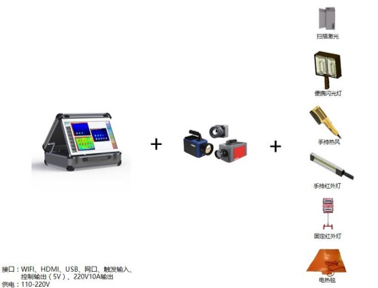
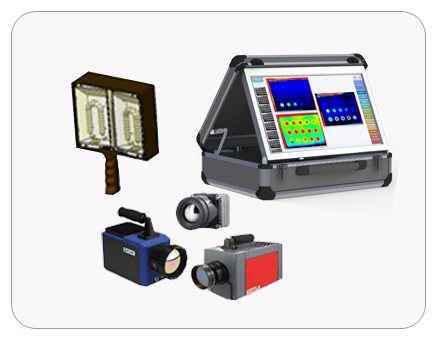
update images, product

diff --git a/ch/about.php b/ch/about.php
@@ -22,9 +22,9 @@ thinking about at Vincie.web</p>
 				<h4>团队</h4>
 				<p>公司拥有在光电领域里具世界一流水平的核心团队，多位成员曾长期在美国硅谷从事精密光电仪器设备的研发及管理工作，为该领域的优秀人才，具有丰富的产品研发经验和成功的创业经历。</p><p>部分成员先后入选了国家“千人计划”、江苏省“创新创业人才”、南京市“321人才计划”，及南京市“科技创业家培养计划”。团队成员具有很强的创新能力，拥有数十项国内外专利发明，并曾多次获得国家级与省部级科技进步奖。</p>
 		</div>
-						<div class="one-third column with-bg">
+						<div class="one-third column">
 				<h4>技术</h4>
-						<p><img src="../images/leaf_icon.png" />
+						<!-- <p><img src="../images/leaf_icon.png" /> -->
 公司还与国内知名高校联合建立合作平台，促进产、学、研的紧密结合，借助高校丰富的人才和科研资源，努力为我国光电设备行业的发展作出贡献。 <span class="highlight3"> 立足自主创新，促进光电设备行业发展。</span></p>
 		</div>
 		<div class="white-space"></div>

diff --git a/en/about.php b/en/about.php
@@ -22,9 +22,9 @@ thinking about at Vincie.web</p>
 				<h4>团队</h4>
 				<p>公司拥有在光电领域里具世界一流水平的核心团队，多位成员曾长期在美国硅谷从事精密光电仪器设备的研发及管理工作，为该领域的优秀人才，具有丰富的产品研发经验和成功的创业经历。</p><p>部分成员先后入选了国家“千人计划”、江苏省“创新创业人才”、南京市“321人才计划”，及南京市“科技创业家培养计划”。团队成员具有很强的创新能力，拥有数十项国内外专利发明，并曾多次获得国家级与省部级科技进步奖。</p>
 		</div>
-						<div class="one-third column with-bg">
+						<div class="one-third column">
 				<h4>技术</h4>
-						<p><img src="../images/leaf_icon.png" />
+						<!-- <p><img src="../images/leaf_icon.png" /> -->
 公司还与国内知名高校联合建立合作平台，促进产、学、研的紧密结合，借助高校丰富的人才和科研资源，努力为我国光电设备行业的发展作出贡献。 <span class="highlight3"> 立足自主创新，促进光电设备行业发展。</span></p>
 		</div>
 		<div class="white-space"></div>

diff --git a/ch/product.php b/ch/product.php
@@ -15,13 +15,13 @@
 
 			<ul>
 					<li>激励方式选择：</li>
-				<li><a href="#" class="selected" data-filter="*">全部</a></li>
+				<li><a href="#" class="selected" data-filter="*">全 部</a></li>
 				<li><a class="" href="#" data-filter=".short">短脉冲</a></li>
 				<li><a class="" href="#" data-filter=".long">长脉冲</a></li>
-				<li><a class="" href="#" data-filter=".fixed">锁相</a></li>
-				<li><a class="" href="#" data-filter=".ultrasound">超声 </a></li>
-				<li><a class="" href="#" data-filter=".special">专用检测设备 </a></li>
+				<li><a class="" href="#" data-filter=".fixed">锁 相</a></li>
+				<li><a class="" href="#" data-filter=".ultrasound">超 声 </a></li>
 				<li><a class="" href="#" data-filter=".workstation">工作站 </a></li>
+				<li><a class="" href="#" data-filter=".special">专用检测设备 </a></li>
 			</ul>
 		</nav>
 

diff --git a/en/product.php b/en/product.php
@@ -15,13 +15,13 @@
 
 			<ul>
 					<li>激励方式选择：</li>
-				<li><a href="#" class="selected" data-filter="*">全部</a></li>
+				<li><a href="#" class="selected" data-filter="*">全 部</a></li>
 				<li><a class="" href="#" data-filter=".short">短脉冲</a></li>
 				<li><a class="" href="#" data-filter=".long">长脉冲</a></li>
-				<li><a class="" href="#" data-filter=".fixed">锁相</a></li>
-				<li><a class="" href="#" data-filter=".ultrasound">超声 </a></li>
-				<li><a class="" href="#" data-filter=".special">专用检测设备 </a></li>
+				<li><a class="" href="#" data-filter=".fixed">锁 相</a></li>
+				<li><a class="" href="#" data-filter=".ultrasound">超 声 </a></li>
 				<li><a class="" href="#" data-filter=".workstation">工作站 </a></li>
+				<li><a class="" href="#" data-filter=".special">专用检测设备 </a></li>
 			</ul>
 		</nav>
 

diff --git a/en/product-special-2.php b/en/product-special-2.php
@@ -119,7 +119,7 @@
 
 
 	<div id="parameters" class="tabcontent">
-	  <img src="../images/products/table_en_special1.png" />
+	  <img src="../images/products/table_en_special2.png" />
 	</div>
 
 	<div id="applications" class="tabcontent">

diff --git a/ch/product-special-2.php b/ch/product-special-2.php
@@ -119,7 +119,7 @@
 
 
 	<div id="parameters" class="tabcontent">
-	  <img src="../images/products/table_special1.png" />
+	  <img src="../images/products/table_special2.png" />
 	</div>
 
 	<div id="applications" class="tabcontent">

diff --git a/en/product-addon.php b/en/product-addon.php
@@ -72,7 +72,7 @@
 
 </div>
 <div id="parameters2" class="tabcontent2">
-  <img src="../images/products/table_en_addon1.png" />
+  <img src="../images/products/table_en_addon2.png" />
 </div>
 </div>
 

diff --git a/ch/product-addon.php b/ch/product-addon.php
@@ -72,7 +72,7 @@
 
 </div>
 <div id="parameters2" class="tabcontent2">
-  <img src="../images/products/table_addon1.png" />
+  <img src="../images/products/table_addon2.png" />
 </div>
 </div>
 

diff --git a/ch/services.php b/ch/services.php
@@ -20,7 +20,7 @@
 </a></p>
 		</div>
 
-				<div class="one-third column with-bg">
+				<div class="one-third column">
 					<h4>售后服务</h4>
 					<p>
 					<span class="highlight3">

diff --git a/en/services.php b/en/services.php
@@ -20,7 +20,7 @@
 </a></p>
 		</div>
 
-				<div class="one-third column with-bg">
+				<div class="one-third column">
 					<h4>售后服务</h4>
 					<p>
 					<span class="highlight3">
